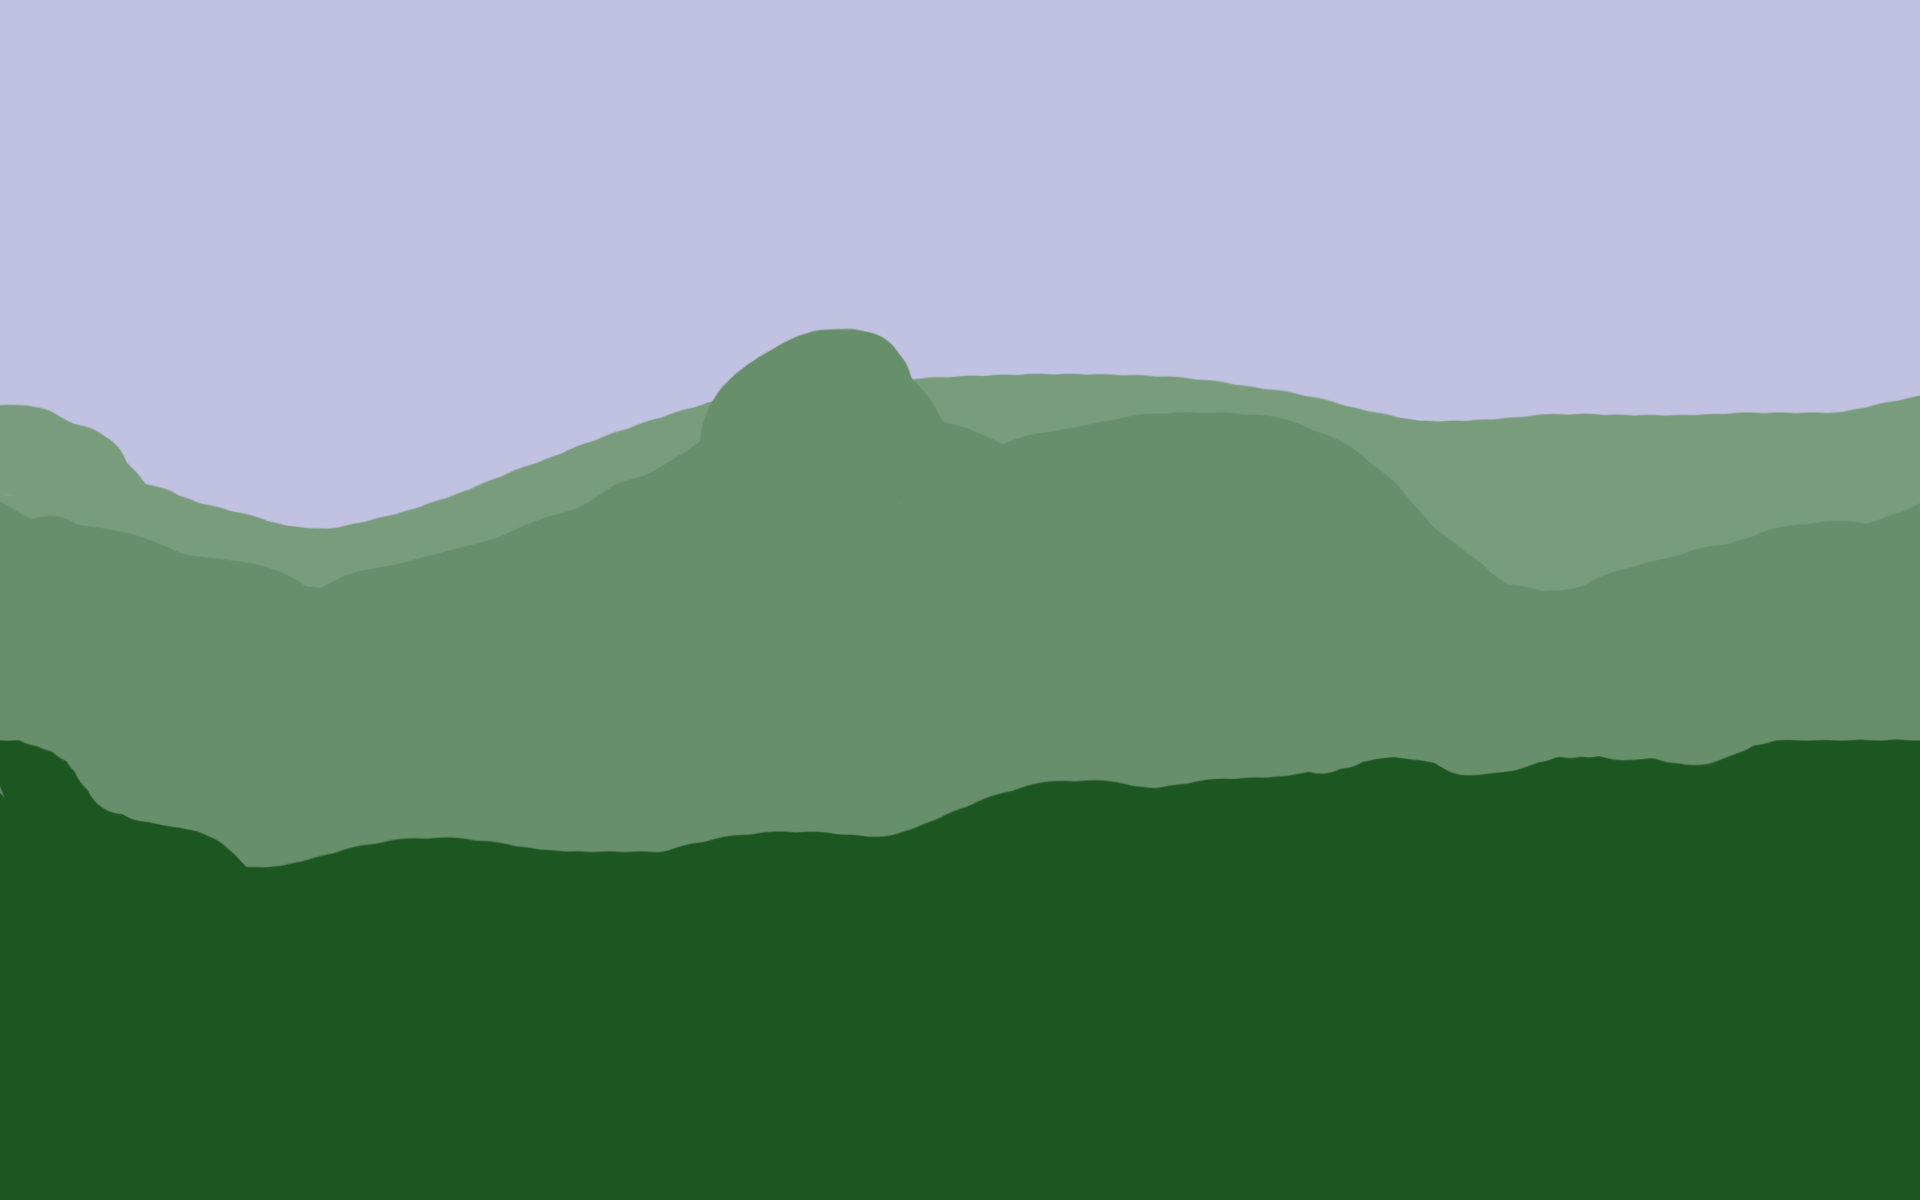
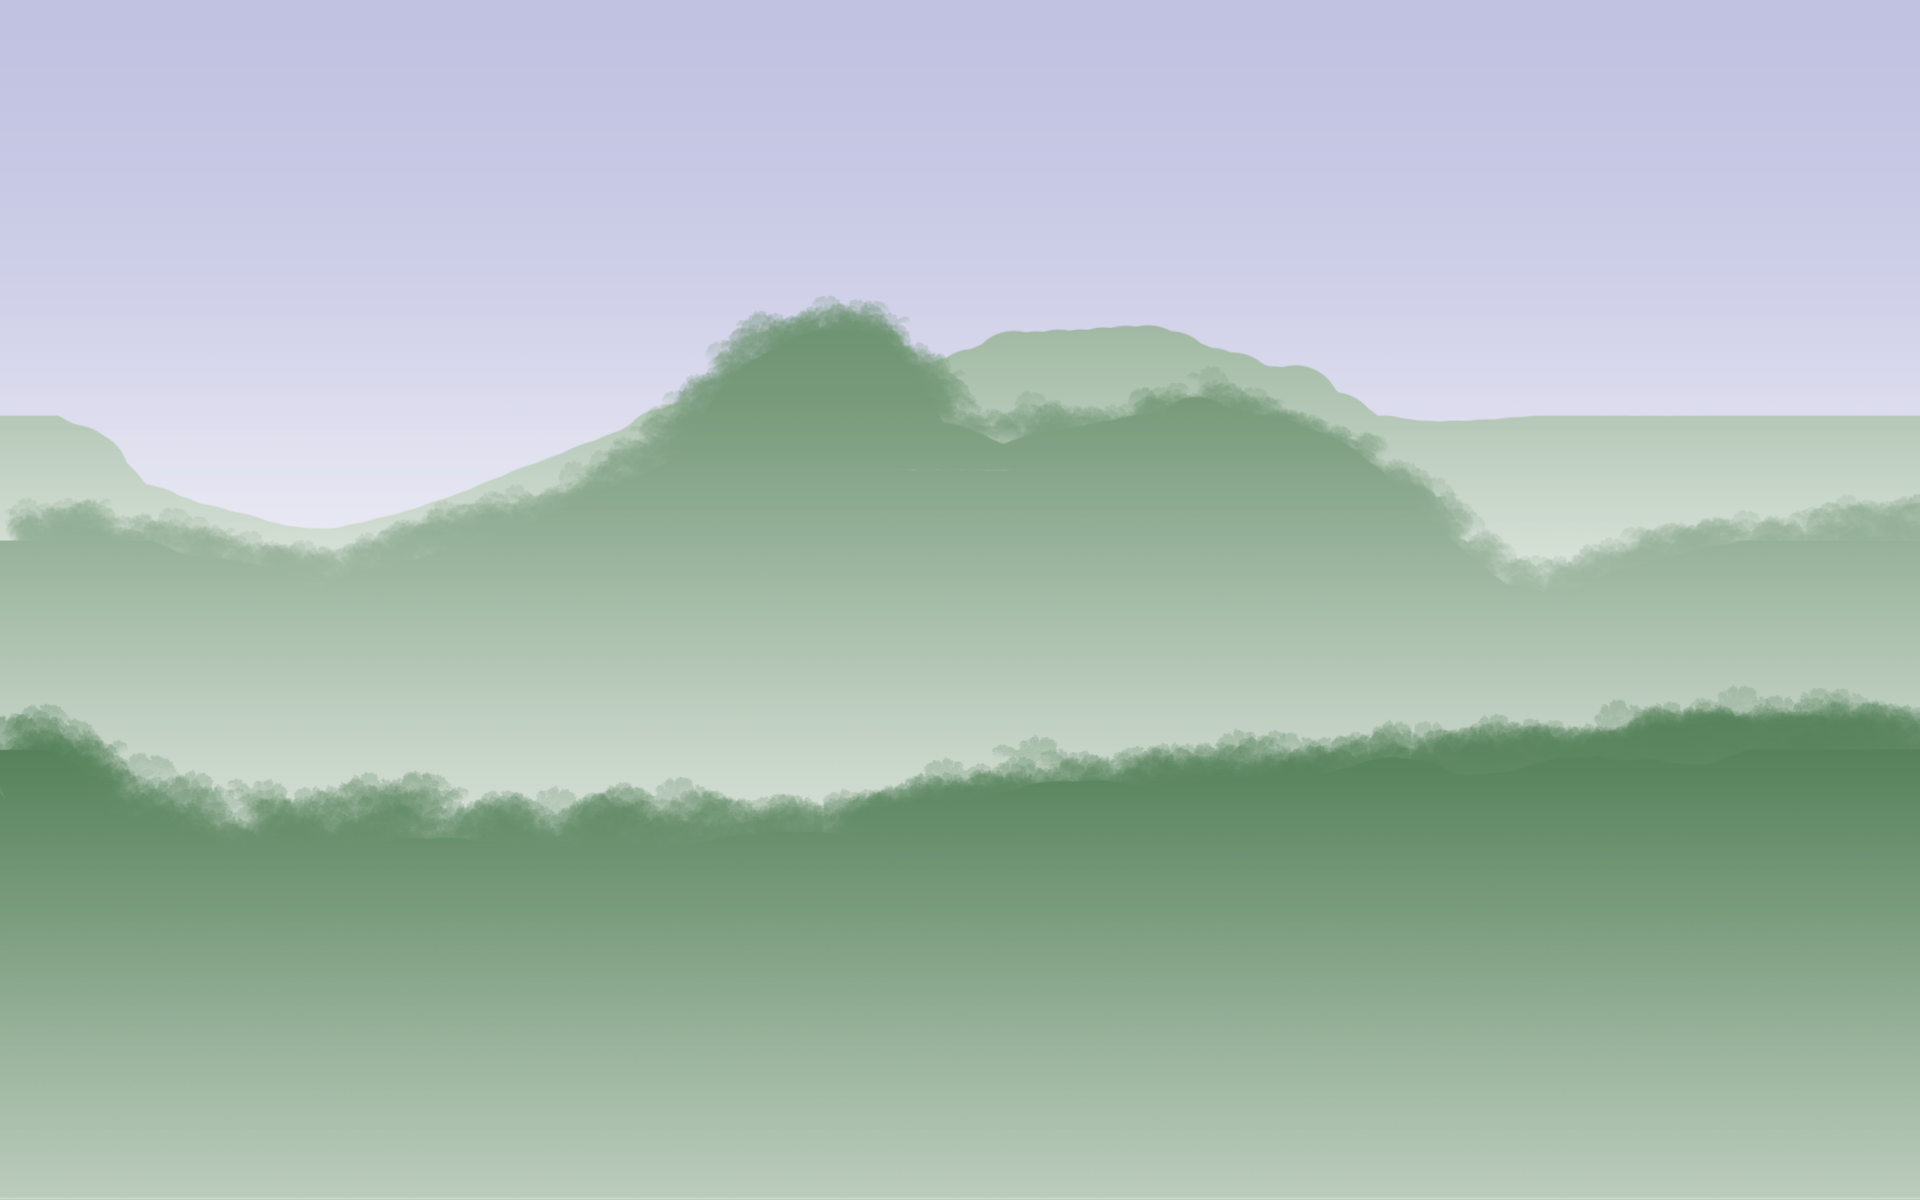
New random features in the dirt New building New background

diff --git a/Bombageddon/Bombageddon/Code/Graphics/BackgroundManager.cs b/Bombageddon/Bombageddon/Code/Graphics/BackgroundManager.cs
@@ -24,7 +24,7 @@ namespace Bombageddon.Code.Graphics
             GRASS,
             BUILDINGS,
             CLOUDS,
-            FADER
+            RANDOM
         }
 
         public BackgroundManager(Bombageddon game, SpriteBatch spriteBatch)
@@ -37,6 +37,8 @@ namespace Bombageddon.Code.Graphics
         {
             backgroundFilenames.Add(new KeyValuePair<int, string>((int)Layers.MAIN, @"Graphics\Backgrounds\Main"));
             backgroundFilenames.Add(new KeyValuePair<int, string>((int)Layers.GRASS, @"Graphics\Backgrounds\Ground"));
+            backgroundFilenames.Add(new KeyValuePair<int, string>((int)Layers.RANDOM, @"Graphics\Backgrounds\Random\jordmedskelett"));
+            backgroundFilenames.Add(new KeyValuePair<int, string>((int)Layers.RANDOM, @"Graphics\Backgrounds\Random\jordmedsten"));
 
             KeyValuePair<int, Background> background = new KeyValuePair<int, Background>((int)Layers.MAIN, 
                 new Background(@"Graphics\Backgrounds\Main", spriteBatch, game, new Vector2(-300f, Bombageddon.HEIGHT)));
@@ -70,6 +72,11 @@ namespace Bombageddon.Code.Graphics
             //backgroundList.AddLast(background);
             //backgroundList.AddLast(addBackground((int)Layers.CLOUDS));
             //backgroundList.AddLast(addBackground((int)Layers.CLOUDS));
+            background = new KeyValuePair<int, Background>((int)Layers.RANDOM,
+                new Background(@"Graphics\Backgrounds\Random\jordmedsten", spriteBatch, game, new Vector2(700f, Bombageddon.HEIGHT)));
+            background.Value.Initialize();
+            backgroundList.AddLast(background);
+            backgroundList.AddLast(addBackground((int)Layers.RANDOM));
 
             rand = new Random();
         }
@@ -164,9 +171,9 @@ namespace Bombageddon.Code.Graphics
         private KeyValuePair<int, Background> addBackground(int layer)
         {
             int offset = 0;
-            if (layer == (int)Layers.BUILDINGS || layer == (int)Layers.CLOUDS)
+            if (layer == (int)Layers.RANDOM)
             {
-                offset = rand.Next(100, 600);
+                offset = rand.Next(1600, 3500);
             }
             Vector2 position = new Vector2(getBackgroundsByLayer(layer).Last().position.X + getBackgroundsByLayer(layer).Last().SourceRectangle.Width + offset, Bombageddon.HEIGHT);
 

diff --git a/Bombageddon/Bombageddon/Code/Entities/EntityManager.cs b/Bombageddon/Bombageddon/Code/Entities/EntityManager.cs
@@ -58,11 +58,11 @@ namespace Bombageddon.Code.Entities
         {
             PlatformData platform = new PlatformData(game, @"Graphics\Spritesheets\Hus1_sheet", @"Graphics\Collision\Hus1_collision", 9, 128, 
                 new Vector2(500f, Bombageddon.GROUND - 15f), 10);
-            availablePlatforms.Add(platform); 
+            availablePlatforms.Add(platform);
 
-            //platform = new PlatformData(game, @"Graphics\Buildings\Hus2", @"Graphics\Collision\Hus2_collision", 0, 128, 
-            //    new Vector2(100f, Bombageddon.GROUND - 15f), 10);
-            //availablePlatforms.Add(platform);
+            platform = new PlatformData(game, @"Graphics\Spritesheets\Hus2_sheet", @"Graphics\Collision\Hus2_collision", 8, 128,
+                new Vector2(100f, Bombageddon.GROUND - 15f), 10);
+            availablePlatforms.Add(platform);
         }
 
         private LinkedListNode<Entity> findFirstOfType(String type)
